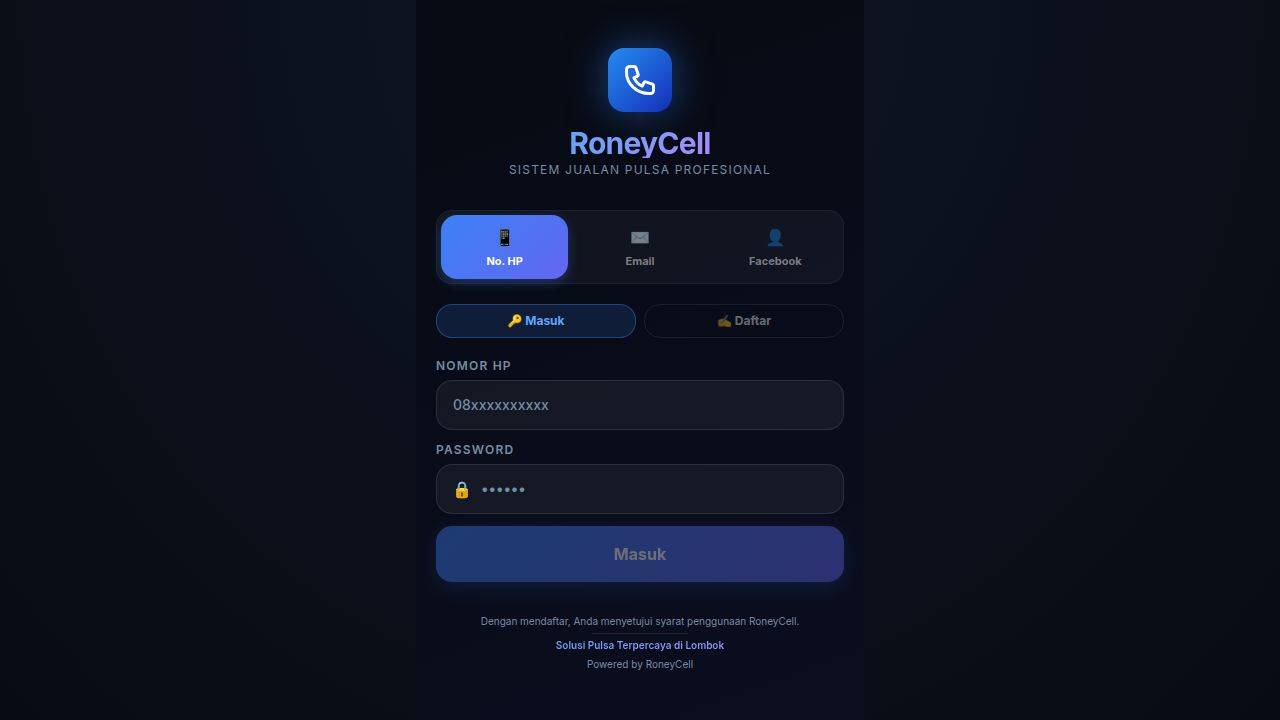
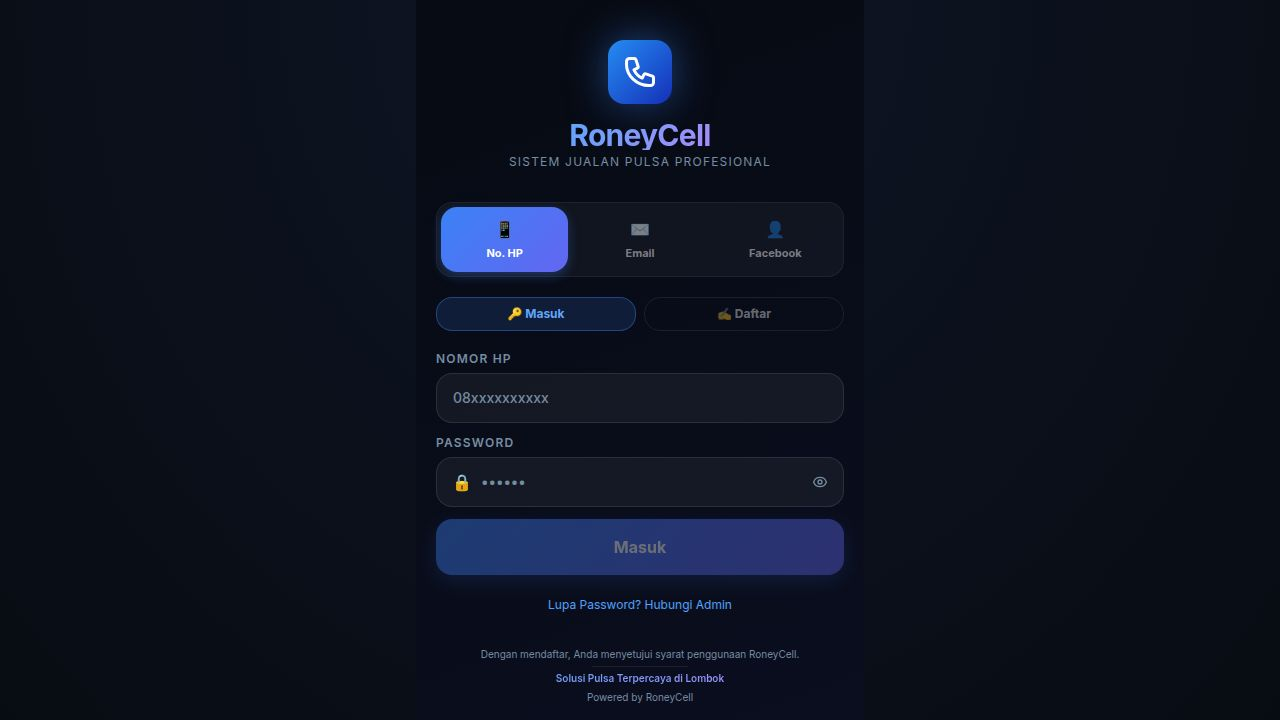
Add BCA transfer payment option and display QRIS image correctly
Update payment instructions to conditionally display QRIS image or BCA bank transfer details based on the selected deposit method. Also, fix the QRIS image path to use dynamic base URL and update the image file.

Replit-Commit-Author: Agent
Replit-Commit-Session-Id: 03236a25-df3f-4a62-9c7d-1364a9d21b76
Replit-Commit-Checkpoint-Type: full_checkpoint
Replit-Commit-Event-Id: 540b685c-9597-401e-9e87-053821499a7b
Replit-Commit-Screenshot-Url: https://storage.googleapis.com/screenshot-production-us-central1/cd8d57f9-1fb4-48bb-8839-056abca39dfd/03236a25-df3f-4a62-9c7d-1364a9d21b76/xtmuVUV
Replit-Helium-Checkpoint-Created: true

diff --git a/artifacts/roney-cell/src/pages/DepositPage.tsx b/artifacts/roney-cell/src/pages/DepositPage.tsx
@@ -11,8 +11,15 @@ import {
   type V2Deposit,
 } from "@/lib/apiV2";
 
-/* URL QRIS DANA Bisnis yang sudah dicopy ke public/ */
-const QRIS_URL = "/roney-cell/qris-dana.jpeg";
+/* URL QRIS DANA Bisnis — pakai BASE_URL agar tidak hardcoded */
+const QRIS_URL = `${(import.meta.env.BASE_URL as string).replace(/\/$/, "")}/qris-dana.jpg`;
+
+/* Info rekening BCA */
+const BCA_INFO = {
+  bank: "BCA",
+  noRek: "7255211277",
+  atasNama: "Isriatul Bahroni",
+};
 
 const PRESET_AMOUNTS = [50_000, 100_000, 200_000, 500_000, 1_000_000, 2_000_000];
 
@@ -234,45 +241,41 @@ function PaymentInstructions({
         </div>
       </div>
 
-      {/* QRIS image + instruksi */}
-      {!isExpired && deposit.status === "pending" && (
+      {/* Instruksi pembayaran — beda tampilan sesuai metode */}
+      {!isExpired && deposit.status === "pending" && deposit.method === "qris" && (
         <div className="rounded-2xl overflow-hidden" style={{ border: "1px solid rgba(168,85,247,0.3)", background: "rgba(168,85,247,0.04)" }}>
-          {/* Banner instruksi — teks besar mencolok */}
           <div className="px-4 py-3 text-center" style={{ background: "linear-gradient(135deg, rgba(168,85,247,0.2), rgba(59,130,246,0.2))", borderBottom: "1px solid rgba(168,85,247,0.2)" }}>
-            <p className="text-xs font-black tracking-widest uppercase text-purple-300 mb-0.5">Cara Bayar</p>
+            <p className="text-xs font-black tracking-widest uppercase text-purple-300 mb-0.5">Cara Bayar QRIS</p>
             <p className="text-base font-black text-white leading-snug">
-              TRANSFER HARUS SESUAI<br />
+              SCAN QR & BAYAR TEPAT<br />
               <span style={{ color: "#FBBF24" }}>NOMINAL + KODE UNIK</span>
             </p>
           </div>
 
-          {/* QRIS */}
+          {/* Gambar QRIS */}
           <div className="px-4 pt-4 pb-2 flex flex-col items-center gap-3">
-            <div className="relative">
+            <div className="relative bg-white p-3 rounded-2xl" style={{ boxShadow: "0 8px 32px rgba(168,85,247,0.25)", border: "2px solid rgba(168,85,247,0.4)" }}>
               <img
                 src={QRIS_URL}
                 alt="QRIS Dana Bisnis RoneyCell"
-                className="w-full max-w-[260px] rounded-2xl"
-                style={{ border: "2px solid rgba(168,85,247,0.4)", boxShadow: "0 8px 32px rgba(168,85,247,0.2)" }}
+                className="w-[220px] h-[220px] object-contain rounded-lg"
+                onError={(e) => { (e.currentTarget as HTMLImageElement).style.display = "none"; }}
               />
-              {/* Overlay nominal di atas QR */}
-              <div className="absolute bottom-3 left-0 right-0 flex justify-center pointer-events-none">
-                <div className="px-3 py-1 rounded-lg text-xs font-black text-gray-900"
-                  style={{ background: "#FBBF24", boxShadow: "0 2px 8px rgba(0,0,0,0.4)" }}>
+              {/* Overlay nominal */}
+              <div className="absolute -bottom-3 left-0 right-0 flex justify-center pointer-events-none">
+                <div className="px-4 py-1.5 rounded-full text-xs font-black text-gray-900"
+                  style={{ background: "#FBBF24", boxShadow: "0 2px 12px rgba(0,0,0,0.4)" }}>
                   Bayar: {rp(totalAmount)}
                 </div>
               </div>
             </div>
-            <p className="text-xs text-center text-purple-300/80">
-              DANA · GoPay · OVO · ShopeePay · m-banking
-            </p>
+            <p className="text-xs text-center text-purple-300/80 mt-2">DANA · GoPay · OVO · ShopeePay · m-banking</p>
           </div>
 
-          {/* Langkah-langkah */}
           <div className="px-4 pb-4 space-y-2">
             {[
               { no: "1", text: "Buka aplikasi dompet digital atau m-banking" },
-              { no: "2", text: "Scan QRIS di atas" },
+              { no: "2", text: "Pilih menu QRIS / Scan QR" },
               { no: "3", text: `Masukkan nominal TEPAT ${rp(totalAmount)}` },
               { no: "4", text: "Bayar → screenshot struk pembayaran" },
               { no: "5", text: "Upload struk di bawah → saldo otomatis masuk ⚡" },
@@ -284,6 +287,86 @@ function PaymentInstructions({
               </div>
             ))}
           </div>
+        </div>
+      )}
+
+      {/* Instruksi Transfer BCA */}
+      {!isExpired && deposit.status === "pending" && deposit.method === "transfer" && (
+        <div className="rounded-2xl overflow-hidden" style={{ border: "1px solid rgba(59,130,246,0.35)", background: "rgba(59,130,246,0.04)" }}>
+          <div className="px-4 py-3 text-center" style={{ background: "linear-gradient(135deg, rgba(59,130,246,0.2), rgba(6,182,212,0.15))", borderBottom: "1px solid rgba(59,130,246,0.2)" }}>
+            <p className="text-xs font-black tracking-widest uppercase text-blue-300 mb-0.5">Transfer Bank BCA</p>
+            <p className="text-base font-black text-white leading-snug">
+              TRANSFER TEPAT NOMINAL<br />
+              <span style={{ color: "#FBBF24" }}>TERMASUK KODE UNIK</span>
+            </p>
+          </div>
+
+          {/* Info rekening BCA */}
+          <div className="px-4 py-4 space-y-3">
+            <div className="rounded-xl overflow-hidden" style={{ border: "1px solid rgba(59,130,246,0.25)", background: "rgba(59,130,246,0.06)" }}>
+              {/* Logo BCA */}
+              <div className="px-4 py-3 flex items-center gap-3" style={{ borderBottom: "1px solid rgba(59,130,246,0.15)", background: "rgba(59,130,246,0.1)" }}>
+                <div className="w-9 h-9 rounded-xl flex items-center justify-center font-black text-xs text-white"
+                  style={{ background: "linear-gradient(135deg,#005DAA,#0071CE)" }}>BCA</div>
+                <div>
+                  <p className="text-xs font-black text-white">Bank BCA</p>
+                  <p className="text-[10px] text-blue-300/80">Bank Central Asia</p>
+                </div>
+              </div>
+              <div className="px-4 py-3 space-y-3">
+                <div>
+                  <p className="text-[10px] text-muted-foreground uppercase tracking-wider mb-1">Nomor Rekening</p>
+                  <div className="flex items-center justify-between gap-2">
+                    <p className="text-xl font-black text-white tracking-widest">{BCA_INFO.noRek}</p>
+                    <CopyBtn text={BCA_INFO.noRek} />
+                  </div>
+                </div>
+                <div className="h-px bg-white/8" />
+                <div>
+                  <p className="text-[10px] text-muted-foreground uppercase tracking-wider mb-1">Atas Nama</p>
+                  <p className="text-sm font-semibold text-white">{BCA_INFO.atasNama}</p>
+                </div>
+              </div>
+            </div>
+
+            {/* Nominal transfer */}
+            <div className="rounded-xl px-4 py-3 space-y-2" style={{ background: "rgba(239,68,68,0.08)", border: "1px solid rgba(239,68,68,0.25)" }}>
+              <p className="text-xs font-black text-red-300 uppercase tracking-wider">⚠️ Transfer TEPAT nominal ini</p>
+              <div className="flex items-center justify-between gap-3">
+                <p className="text-2xl font-black text-white">{rp(totalAmount)}</p>
+                <CopyBtn text={String(totalAmount)} />
+              </div>
+              <p className="text-xs text-red-300/80">Nominal berbeda = tidak terdeteksi otomatis</p>
+            </div>
+
+            {/* Langkah */}
+            <div className="space-y-2">
+              {[
+                { no: "1", text: "Buka m-banking atau ATM BCA / bank lain" },
+                { no: "2", text: `Transfer ke BCA ${BCA_INFO.noRek} a.n. ${BCA_INFO.atasNama}` },
+                { no: "3", text: `Masukkan nominal TEPAT ${rp(totalAmount)} (sudah termasuk kode unik)` },
+                { no: "4", text: "Simpan struk / screenshot bukti transfer" },
+                { no: "5", text: "Upload struk di bawah → saldo otomatis masuk ⚡" },
+              ].map((s) => (
+                <div key={s.no} className="flex items-start gap-3">
+                  <div className="w-5 h-5 rounded-full flex items-center justify-center shrink-0 text-xs font-black mt-0.5"
+                    style={{ background: "rgba(59,130,246,0.25)", color: "#60A5FA" }}>{s.no}</div>
+                  <p className="text-xs text-white/70 leading-relaxed">{s.text}</p>
+                </div>
+              ))}
+            </div>
+          </div>
+        </div>
+      )}
+
+      {/* Instruksi Manual/WA */}
+      {!isExpired && deposit.status === "pending" && deposit.method === "manual" && (
+        <div className="rounded-2xl px-4 py-4 space-y-2" style={{ border: "1px solid rgba(16,185,129,0.3)", background: "rgba(16,185,129,0.04)" }}>
+          <p className="text-xs font-black text-emerald-400 uppercase tracking-wider">Konfirmasi via WhatsApp</p>
+          <p className="text-xs text-white/70 leading-relaxed">
+            Hubungi admin RoneyCell via WhatsApp untuk konfirmasi deposit manual sebesar <span className="font-bold text-white">{rp(totalAmount)}</span>.<br />
+            Sertakan nomor tiket: <span className="font-mono text-amber-400">{deposit.paymentRef}</span>
+          </p>
         </div>
       )}
 
@@ -496,9 +579,9 @@ function NewDepositForm({
         <p className="text-[10px] font-black uppercase tracking-widest text-muted-foreground">Metode Bayar</p>
         <div className="space-y-2">
           {([
-            { v: "qris",     label: "QRIS DANA Bisnis",        sub: "GoPay · OVO · DANA · ShopeePay", color: "#A855F7" },
-            { v: "transfer", label: "Transfer Bank",            sub: "BCA · BRI · Mandiri · dll",      color: "#3B82F6" },
-            { v: "manual",   label: "Manual (konfirmasi WA)",   sub: "Hubungi admin langsung",          color: "#10B981" },
+            { v: "qris",     label: "QRIS DANA Bisnis",          sub: "GoPay · OVO · DANA · ShopeePay", color: "#A855F7" },
+            { v: "transfer", label: "Transfer Bank BCA",         sub: "No. Rek 7255211277 · a.n. Isriatul Bahroni", color: "#3B82F6" },
+            { v: "manual",   label: "Manual (konfirmasi WA)",    sub: "Hubungi admin langsung",          color: "#10B981" },
           ] as const).map((m) => (
             <button key={m.v} onClick={() => setMethod(m.v)}
               className="w-full flex items-center gap-3 px-4 py-3 rounded-xl text-left transition-all"